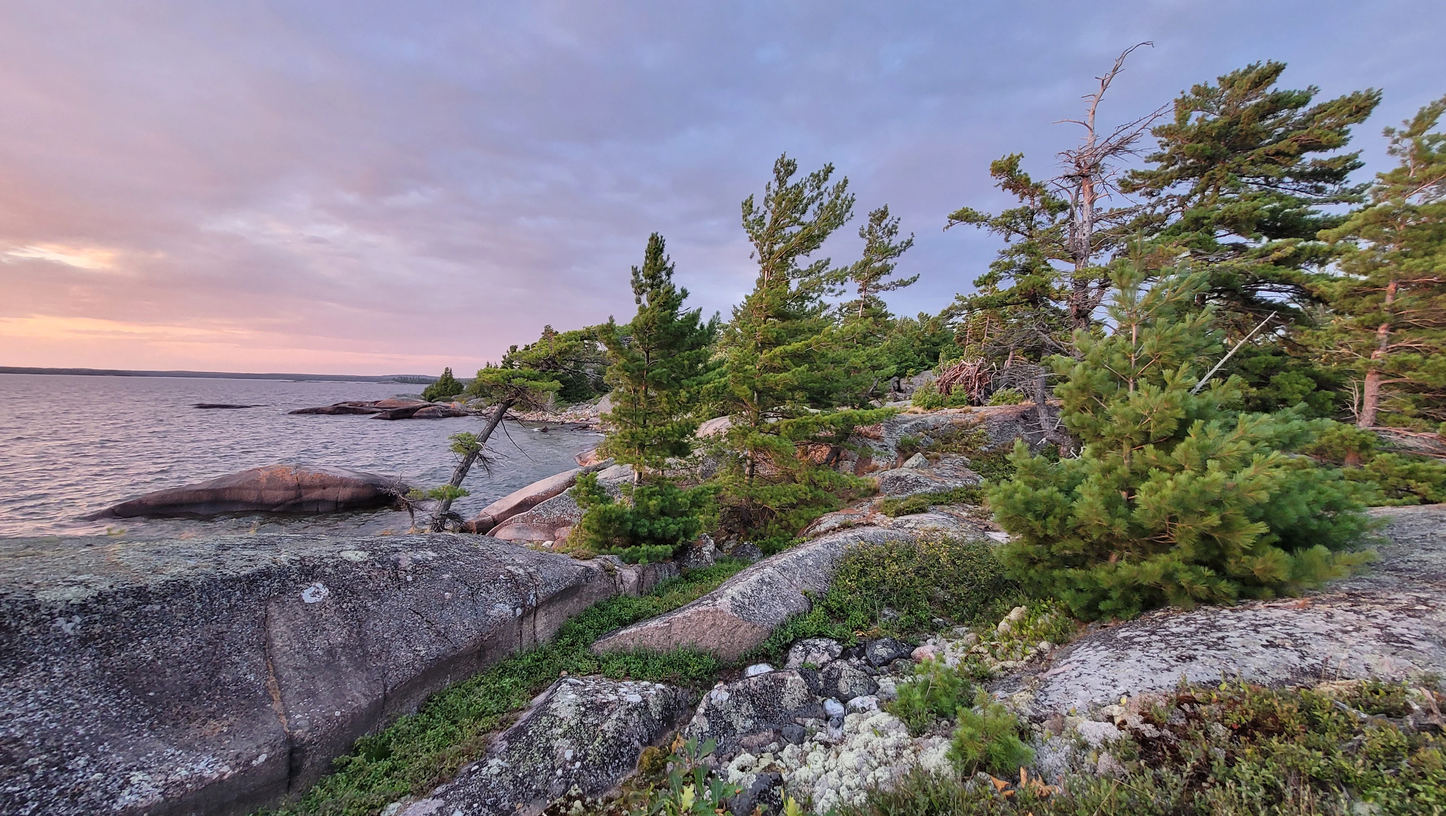
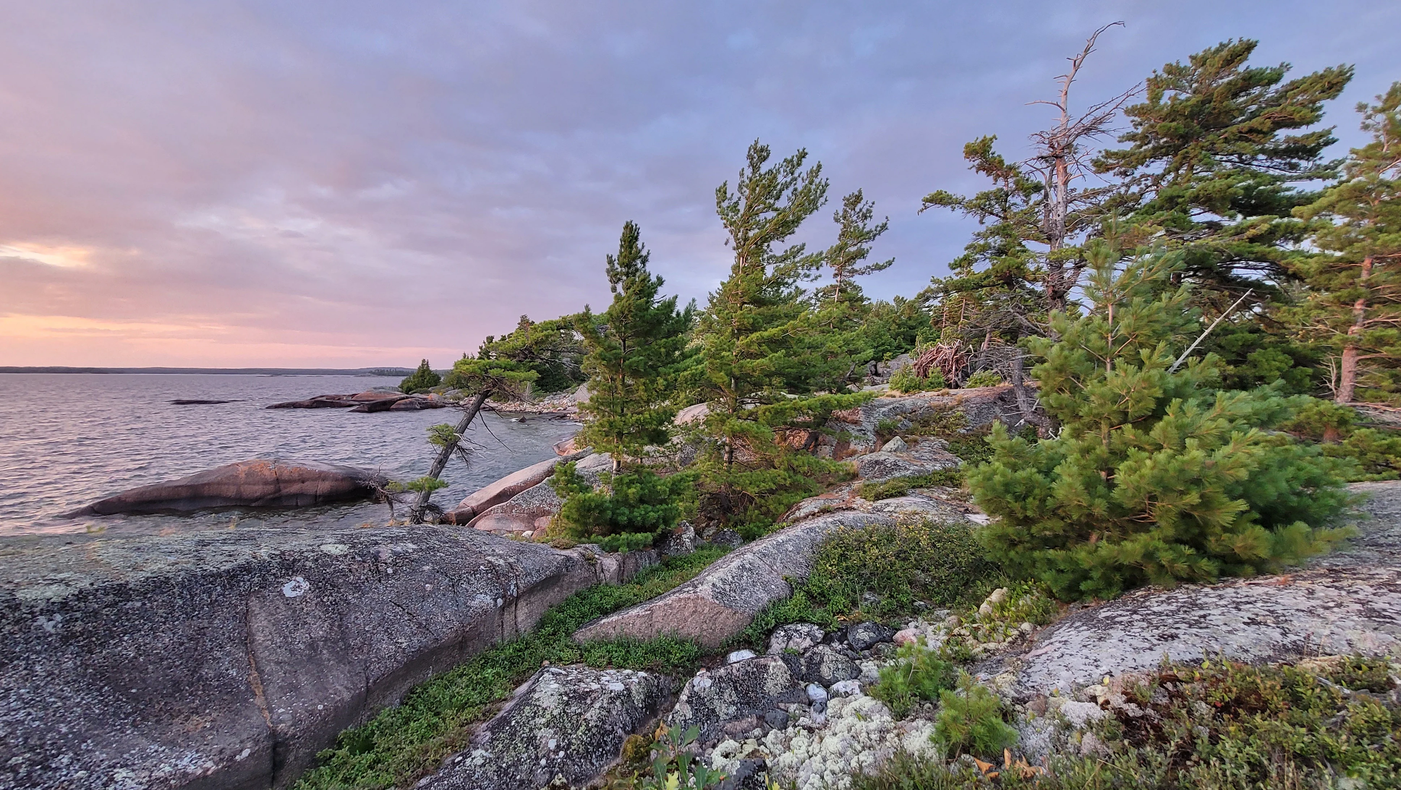
ch 12

diff --git a/trips/Benjamin_Islands_2023.html b/trips/Benjamin_Islands_2023.html
@@ -1410,6 +1410,13 @@
                 shoreline with every imaginable shade of green, gold and orange.
             </p>
 
+             <img class="story-photo-full-width" 
+                src="../images/trips/Eastern Shoreline Cliff.webp" 
+                alt="A colorful cliff on the eastern shoreline of Lake Huron's North Benjamin Island">
+             <img class="story-photo-full-width" 
+                src="../images/trips/Eastern Shoreline Edge.webp" 
+                alt="A calm cove cliff edge with rocks and trees reflecting off the calm water on North Benjamin Island in The North Channel of Lake Huron">
+
             <p>
                 Hidden within the cove sat a large beaver lodge.
             </p>
@@ -1426,6 +1433,11 @@
                 They disappeared beneath the water beside their lodge, leaving only expanding circles on the otherwise
                 perfect surface.
             </p>
+
+             <img class="story-photo-full-width" 
+                src="../images/trips/Northern Rock.webp" 
+                alt="A calm cove red cliff with a tree on top in North Benjamin Island in The North Channel of Lake Huron">
+
 
             <p>
                 A little farther along, another small drama unfolded. A family of ducks paddled quietly through a
@@ -1453,12 +1465,15 @@
             </p>
 
             <p>
-                Golden hour transformed the islands one final time. Purples emerged within the granite. Ivory moss
+                Golden hour transformed the islands again. Purples emerged within the granite. Ivory moss
                 suddenly glowed fluorescent green. Pine needles and oak leaves seemed illuminated from within. It felt
                 as though the Benjamin Islands were unwilling to reveal all of their beauty at once, instead saving one
                 final surprise for the closing moments of the day.
             </p>
 
+            <img class="story-photo-full-width" 
+                src="../images/gallery/benjis/2.webp" 
+                alt="A calm cove red cliff with a tree on top in North Benjamin Island in The North Channel of Lake Huron">
 
 
         </div>
